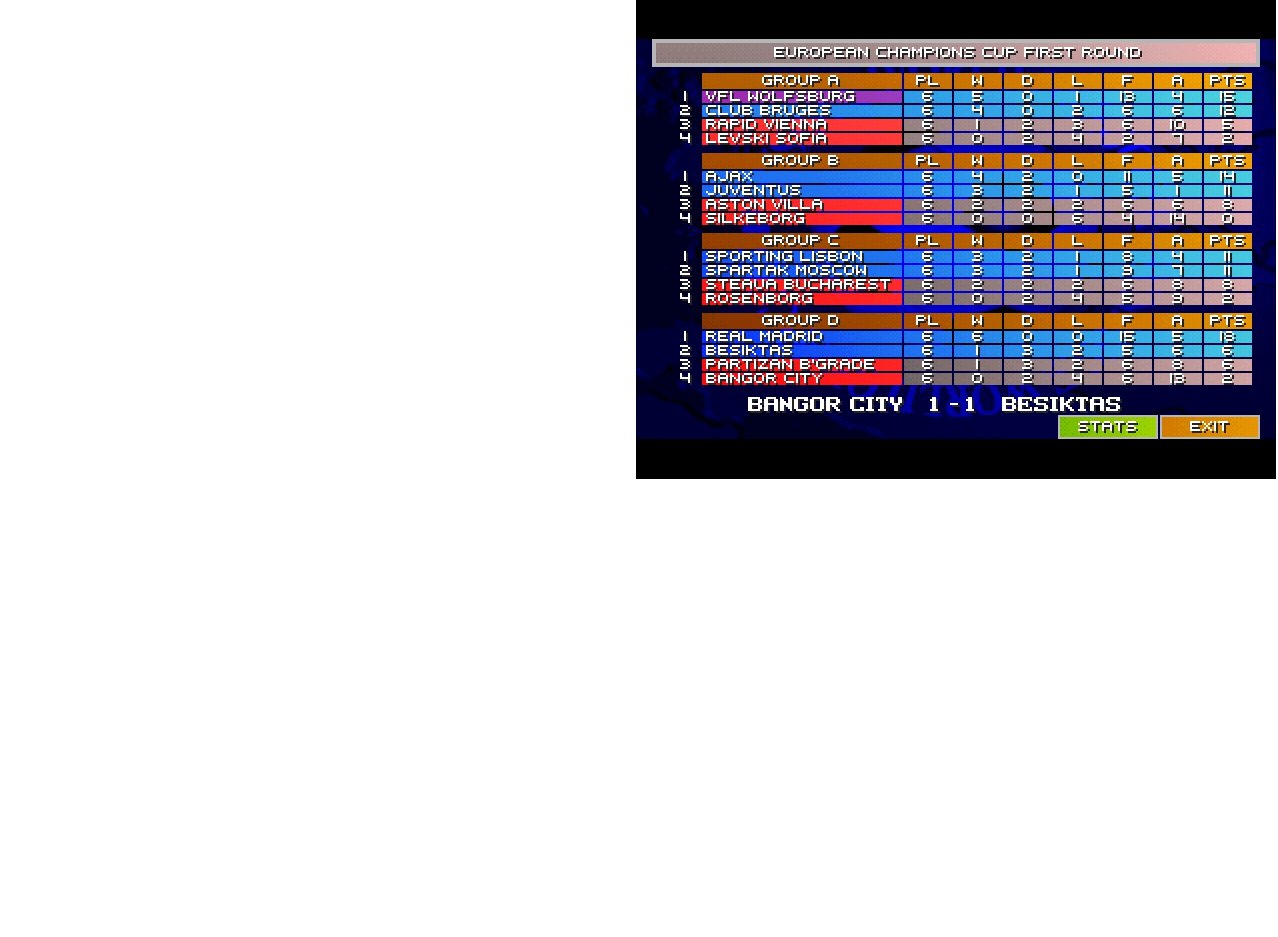
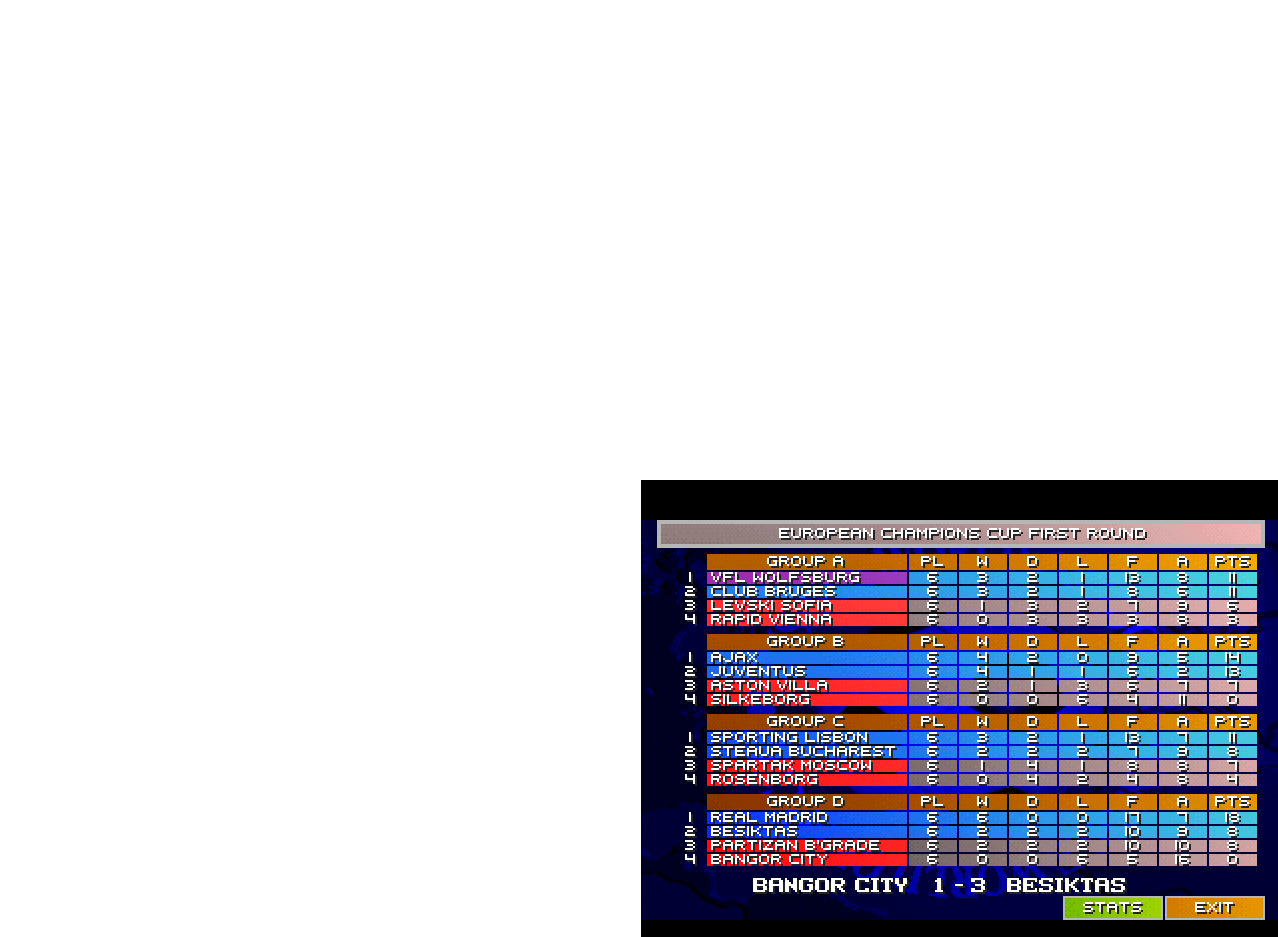
add png

diff --git a/shiftplane/templates/shifts.html b/shiftplane/templates/shifts.html
@@ -114,32 +114,44 @@ body {
 }
 
 /* ===== MODAL ===== */
+/* ===== MODAL ===== */
 #shiftModal {
     display: none;
     position: fixed;
     inset: 0;
-    background: rgba(0,0,0,0.4);
+    background: rgba(0,0,0,0.45);
     justify-content: center;
     align-items: center;
+    z-index: 9999;
 }
 
 #shiftModal .modal-content {
     background: white;
-    padding: 20px;
-    width: 90%;
+    width: 95%;
     max-width: 400px;
-    border-radius: 10px;
+    padding: 20px;
+    border-radius: 12px;
 }
 
-select, input {
+#shiftModal h3 {
+    margin-top: 0;
+    text-align: center;
+}
+
+#shiftModal select,
+#shiftModal input {
     width: 100%;
-    padding: 8px;
-    font-size: 14px;
+    padding: 12px;
+    font-size: 16px;
+    margin-bottom: 12px;
 }
 
-button {
-    padding: 8px 12px;
-    margin: 4px 2px;
+#shiftModal button {
+    width: 100%;
+    padding: 12px;
+    margin-bottom: 8px;
+    font-size: 15px;
+    font-weight: 600;
 }
 
 /* ===== FLOATING BUTTONS ===== */
